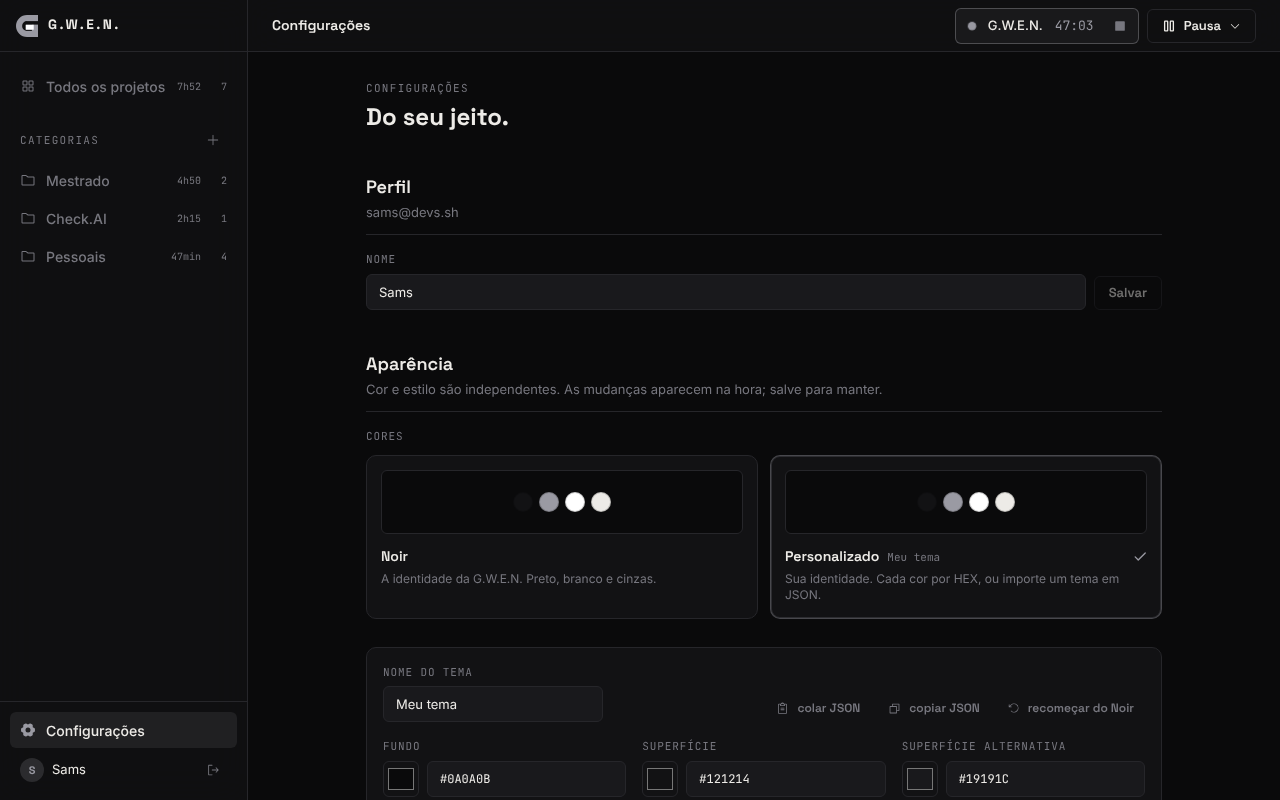
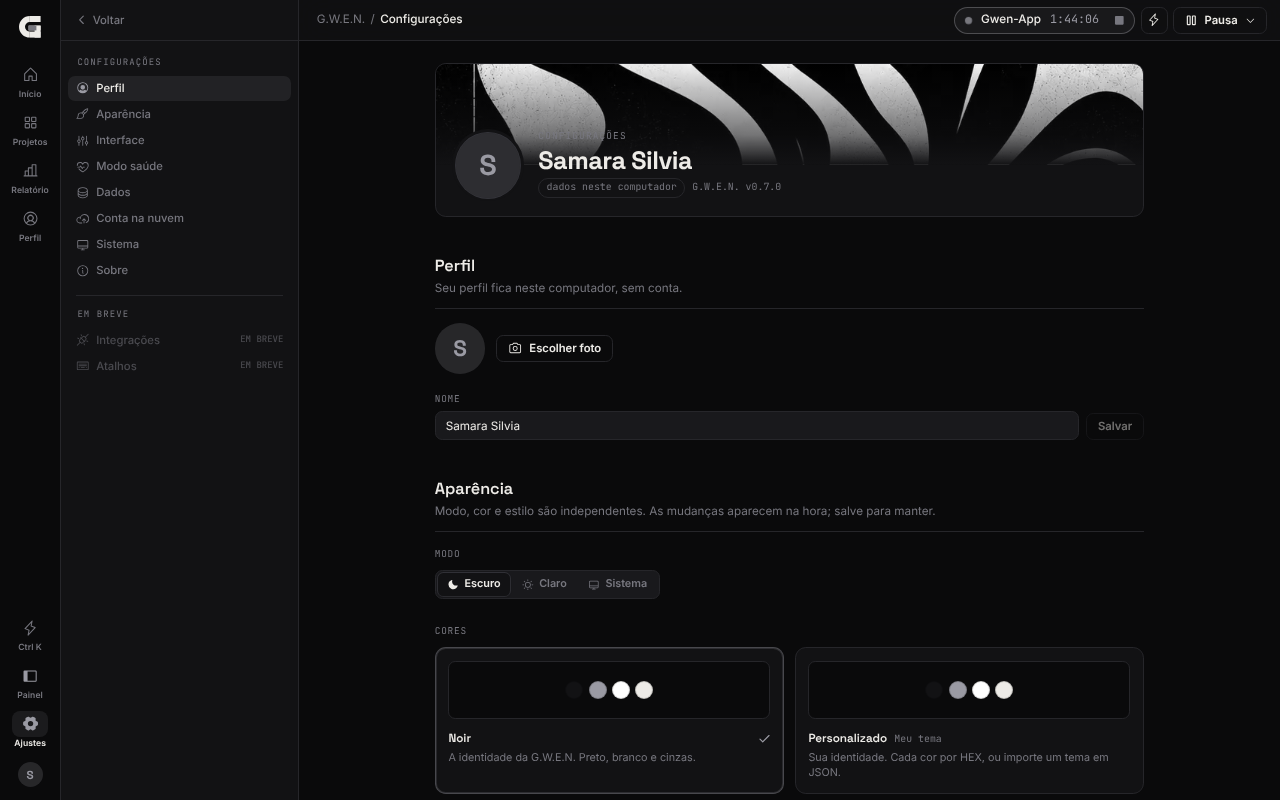
feat: settings navigation by sections with profile cover

diff --git a/src/pages/Settings.jsx b/src/pages/Settings.jsx
@@ -22,11 +22,13 @@ import {
 const MODE_ICON = { escuro: Moon, claro: Sun, sistema: Desktop };
 import Logo from '../components/Logo';
 import { Label } from '../components/Modal';
-import { AvatarPicker } from '../components/Avatar';
+import Avatar, { AvatarPicker } from '../components/Avatar';
+import { SETTINGS_SECTIONS, SettingsTabs } from '../components/SettingsNav';
+import wallpaper from '../assets/wallpaper.webp';
 import { DEFAULT_ZOOM, ZOOM_EVENT, ZOOM_STEPS, applyZoom, loadZoom, zoomLabel } from '../lib/zoom';
 import { bubbleEnabled, setBubbleEnabled } from '../lib/layout';
 
-export default function Settings() {
+export default function Settings({ section = 'perfil', jump = 0, onSpy, narrow = false }) {
   const { profile, updateProfile, reload } = useProfile();
   const { refresh } = useWorkspace();
   const toast = useToast();
@@ -72,6 +74,31 @@ export default function Settings() {
   const [dataPath, setDataPath] = useState('');
   const [importedAt, setImportedAt] = useState(null);
   const [cloudOpen, setCloudOpen] = useState(false);
+
+  // navegação por seções (0.7): pular até a seção clicada e marcar a que está visível
+  const scroller = useRef(null);
+  const spyLock = useRef(0);
+  useEffect(() => {
+    if (!jump) return;
+    const el = document.getElementById(`cfg-${section}`);
+    if (!el) return;
+    spyLock.current = Date.now() + 700;
+    el.scrollIntoView({ behavior: 'smooth', block: 'start' });
+  }, [jump]); // eslint-disable-line react-hooks/exhaustive-deps
+  function onScroll() {
+    if (!onSpy || Date.now() < spyLock.current) return;
+    const box = scroller.current;
+    if (!box) return;
+    const top = box.getBoundingClientRect().top + 96;
+    let current = SETTINGS_SECTIONS[0].id;
+    for (const { id } of SETTINGS_SECTIONS) {
+      const el = document.getElementById(`cfg-${id}`);
+      if (el && el.getBoundingClientRect().top <= top) current = id;
+    }
+    // no fim da página, a última seção ganha mesmo que seja curta
+    if (box.scrollTop + box.clientHeight >= box.scrollHeight - 4) current = SETTINGS_SECTIONS.at(-1).id;
+    onSpy(current);
+  }
   useEffect(() => {
     dataDir().then(setDataPath).catch(() => {});
     cloudImportDoneAt().then(setImportedAt).catch(() => {});
@@ -211,15 +238,28 @@ export default function Settings() {
   }
 
   return (
-    <div className="h-full overflow-y-auto">
+    <div className="h-full overflow-y-auto" ref={scroller} onScroll={onScroll}>
+      {narrow && <SettingsTabs section={section} onSection={(id) => onSpy?.(id, true)} />}
       <div className="page page-narrow flex flex-col gap-10">
-        <header className="anim-rise">
-          <p className="eyebrow mb-1">configurações</p>
-          <h1 className="page-title">Do seu jeito.</h1>
+        {/* capa no jeito do CuraData: wallpaper, foto e nome */}
+        <header className="settings-hero anim-rise" style={{ '--wallpaper': `url(${wallpaper})` }}>
+          <div className="settings-hero-cover" />
+          <div className="settings-hero-body">
+            <div className="profile-avatar">
+              <Avatar profile={profile} size={72} />
+            </div>
+            <div className="min-w-0 flex-1 pb-1">
+              <h1 className="page-title truncate">{profile?.display_name || 'Você'}</h1>
+              <p className="text-[12.5px] text-muted mt-1 flex items-center gap-2 flex-wrap">
+                <span className="chip">{account ? 'dados na nuvem' : 'dados neste computador'}</span>
+                {version && <span className="mono text-[11px]">G.W.E.N. v{version}</span>}
+              </p>
+            </div>
+          </div>
         </header>
 
         {/* PERFIL */}
-        <Section title="Perfil" description={account ? 'Seu perfil fica na nuvem, na sua conta.' : 'Seu perfil fica neste computador, sem conta.'}>
+        <Section id="perfil" title="Perfil" description={account ? 'Seu perfil fica na nuvem, na sua conta.' : 'Seu perfil fica neste computador, sem conta.'}>
           <div className="mb-5">
             <AvatarPicker
               avatar={profile?.avatar}
@@ -244,7 +284,7 @@ export default function Settings() {
         </Section>
 
         {/* APARÊNCIA */}
-        <Section title="Aparência" description="Modo, cor e estilo são independentes. As mudanças aparecem na hora; salve para manter.">
+        <Section id="aparencia" title="Aparência" description="Modo, cor e estilo são independentes. As mudanças aparecem na hora; salve para manter.">
           <p className="field-label mb-2.5">Modo</p>
           <div className="segmented mb-7">
             {Object.entries(MODES).map(([id, m]) => {
@@ -424,12 +464,13 @@ export default function Settings() {
         </Section>
 
         {/* INTERFACE */}
-        <Section title="Interface" description="Tamanho e comportamento das janelas. Vale para este computador.">
+        <Section id="interface" title="Interface" description="Tamanho e comportamento das janelas. Vale para este computador.">
           <InterfaceSettings />
         </Section>
 
         {/* MODO SAÚDE */}
         <Section
+          id="saude"
           title="Modo saúde"
           description="Lembretes de água, alongamento e descanso dos olhos. Contam tempo de trabalho, não relógio: param nas pausas e com o app fechado."
         >
@@ -512,7 +553,7 @@ export default function Settings() {
         </Section>
 
         {/* DADOS */}
-        <Section title="Dados" description={account ? 'Seus dados ficam na nuvem. O backup em JSON continua disponível.' : 'Tudo fica neste computador. Atualizar ou desinstalar a G.W.E.N. não apaga nada.'}>
+        <Section id="dados" title="Dados" description={account ? 'Seus dados ficam na nuvem. O backup em JSON continua disponível.' : 'Tudo fica neste computador. Atualizar ou desinstalar a G.W.E.N. não apaga nada.'}>
           <div className="card p-4 flex items-center gap-4 mb-3">
             <Database size={20} className="text-phosphor shrink-0" />
             <div className="flex-1 min-w-0">
@@ -552,12 +593,12 @@ export default function Settings() {
         </Section>
 
         {/* CONTA NA NUVEM */}
-        <Section title="Conta na nuvem" description="Opcional e avançado, para quem tem o próprio projeto Supabase. Não é preciso para usar a G.W.E.N.">
+        <Section id="nuvem" title="Conta na nuvem" description="Opcional e avançado, para quem tem o próprio projeto Supabase. Não é preciso para usar a G.W.E.N.">
           <CloudAccountSection />
         </Section>
 
         {/* SISTEMA */}
-        <Section title="Sistema" description="Como a G.W.E.N. se encaixa no seu computador.">
+        <Section id="sistema" title="Sistema" description="Como a G.W.E.N. se encaixa no seu computador.">
           <AutostartToggle />
           <TrayToggle />
           <div className="flex gap-2 items-end">
@@ -585,7 +626,7 @@ export default function Settings() {
         </Section>
 
         {/* SOBRE: autoria e licença (LICENSE, NOTICE.md) */}
-        <Section title="Sobre">
+        <Section id="sobre" title="Sobre">
           <div className="card p-4 flex items-center gap-4">
             <Logo size={40} charge={1} />
             <div className="flex-1">
@@ -748,9 +789,9 @@ function AutostartToggle() {
   );
 }
 
-function Section({ title, description, children }) {
+function Section({ id, title, description, children }) {
   return (
-    <section className="anim-rise">
+    <section id={id ? `cfg-${id}` : undefined} className="anim-rise scroll-mt-5">
       <div className="mb-4 pb-3 border-b border-rule">
         <h2 className="font-display text-lg font-semibold">{title}</h2>
         {description && <p className="text-[13px] text-muted mt-0.5">{description}</p>}

diff --git a/src/components/SettingsNav.jsx b/src/components/SettingsNav.jsx
@@ -1,0 +1,88 @@
+import {
+  CaretLeft, CloudArrowUp, Database, Desktop, Heartbeat, Info, Keyboard, PaintBrush, PlugsConnected, Sliders, UserCircle,
+} from '@phosphor-icons/react';
+
+/**
+ * Seções das Configurações (0.7), no padrão do CuraData: ao entrar em Ajustes,
+ * o painel de projetos dá lugar a esta navegação. Clicar rola até a seção, e a
+ * seção visível fica marcada enquanto você rola.
+ */
+export const SETTINGS_SECTIONS = [
+  { id: 'perfil', label: 'Perfil', icon: UserCircle },
+  { id: 'aparencia', label: 'Aparência', icon: PaintBrush },
+  { id: 'interface', label: 'Interface', icon: Sliders },
+  { id: 'saude', label: 'Modo saúde', icon: Heartbeat },
+  { id: 'dados', label: 'Dados', icon: Database },
+  { id: 'nuvem', label: 'Conta na nuvem', icon: CloudArrowUp },
+  { id: 'sistema', label: 'Sistema', icon: Desktop },
+  { id: 'sobre', label: 'Sobre', icon: Info },
+];
+
+const SOON = [
+  { id: 'integracoes', label: 'Integrações', icon: PlugsConnected, hint: 'Google Calendar e GitHub' },
+  { id: 'atalhos', label: 'Atalhos', icon: Keyboard, hint: 'Ver e trocar os atalhos de teclado' },
+];
+
+export default function SettingsNav({ section, onSection, onBack, overlay, onClose }) {
+  return (
+    <aside className={`panel ${overlay ? 'is-overlay' : ''}`} aria-label="Seções das configurações">
+      <div className="panel-head">
+        <button className="settings-back" onClick={onBack}>
+          <CaretLeft size={13} weight="bold" />
+          Voltar
+        </button>
+      </div>
+
+      <nav className="flex-1 overflow-y-auto px-2 py-3 flex flex-col gap-px">
+        <p className="panel-section !pt-1">Configurações</p>
+        {SETTINGS_SECTIONS.map(({ id, label, icon: Icon }) => {
+          const active = section === id;
+          return (
+            <button
+              key={id}
+              className={`panel-row ${active ? 'is-active' : ''}`}
+              onClick={() => {
+                onSection(id);
+                if (overlay) onClose?.();
+              }}
+              aria-current={active ? 'true' : undefined}
+            >
+              <Icon size={15} weight={active ? 'fill' : 'regular'} className={active ? 'text-phosphor' : ''} />
+              <span className="flex-1 truncate">{label}</span>
+            </button>
+          );
+        })}
+
+        <div className="h-px bg-[var(--c-rule)] mx-2 my-3" />
+        <p className="panel-section !pt-0">Em breve</p>
+        {SOON.map(({ id, label, icon: Icon, hint }) => (
+          <div key={id} className="panel-row is-disabled" title={hint}>
+            <Icon size={15} />
+            <span className="flex-1 truncate">{label}</span>
+            <span className="panel-meta uppercase">em breve</span>
+          </div>
+        ))}
+      </nav>
+    </aside>
+  );
+}
+
+/** Em janela estreita, as seções viram uma faixa de abas no topo da página */
+export function SettingsTabs({ section, onSection }) {
+  return (
+    <div className="settings-tabs" role="tablist" aria-label="Seções das configurações">
+      {SETTINGS_SECTIONS.map(({ id, label, icon: Icon }) => (
+        <button
+          key={id}
+          role="tab"
+          aria-selected={section === id}
+          className={section === id ? 'is-active' : ''}
+          onClick={() => onSection(id)}
+        >
+          <Icon size={13} weight={section === id ? 'fill' : 'regular'} />
+          {label}
+        </button>
+      ))}
+    </div>
+  );
+}

diff --git a/src/styles/index.css b/src/styles/index.css
@@ -355,6 +355,38 @@ select option { background: var(--c-surface); color: var(--c-bone); }
   color: inherit; opacity: 0.75; border: 1px solid currentColor; text-transform: none;
 }
 
+/* ─── CONFIGURAÇÕES (0.7, padrão do CuraData) ─── */
+.settings-back {
+  display: inline-flex; align-items: center; gap: 6px; height: 28px; padding: 0 8px; margin-left: -6px;
+  border: 0; background: transparent; color: var(--c-muted); border-radius: var(--radius-sm);
+  font-size: 12.5px; font-weight: 500; transition: background 0.15s, color 0.15s;
+}
+.settings-back:hover { background: var(--c-phosphor-8); color: var(--c-bone); }
+:root[data-style='terminal'] .settings-back { font-family: var(--f-mono); font-size: 10.5px; letter-spacing: 0.15em; text-transform: uppercase; }
+.panel-row.is-disabled { color: var(--c-muted); opacity: 0.55; cursor: default; }
+.panel-row.is-disabled:hover { background: transparent; color: var(--c-muted); }
+.settings-hero { position: relative; border: 1px solid var(--c-rule); border-radius: var(--radius); overflow: hidden; background: var(--c-surface); }
+.settings-hero-cover {
+  height: 112px;
+  background-image: linear-gradient(180deg, transparent 0%, color-mix(in srgb, var(--c-surface) 55%, transparent) 70%, var(--c-surface) 100%), var(--wallpaper);
+  background-size: cover; background-position: center 40%;
+}
+:root[data-mode='claro'] .settings-hero-cover { background-image: linear-gradient(180deg, color-mix(in srgb, var(--c-surface) 40%, transparent) 0%, color-mix(in srgb, var(--c-surface) 80%, transparent) 70%, var(--c-surface) 100%), var(--wallpaper); }
+.settings-hero-body { display: flex; align-items: flex-end; gap: 16px; padding: 0 18px 16px; margin-top: -40px; position: relative; }
+.settings-hero .profile-avatar { background: var(--c-surface); }
+.settings-tabs {
+  position: sticky; top: 0; z-index: 15; display: flex; gap: 4px; overflow-x: auto; padding: 8px clamp(16px, 3.2vw, 36px);
+  background: var(--c-surface-glass); backdrop-filter: blur(var(--blur)); border-bottom: 1px solid var(--c-rule);
+}
+.settings-tabs button {
+  display: inline-flex; align-items: center; gap: 6px; height: 28px; padding: 0 10px; flex-shrink: 0;
+  border: 0; border-radius: 999px; background: transparent; color: var(--c-muted); font-size: 12px; font-weight: 600; white-space: nowrap;
+}
+.settings-tabs button:hover { color: var(--c-bone); background: var(--c-phosphor-8); }
+.settings-tabs button.is-active { color: var(--c-bone); background: var(--c-phosphor-12); }
+.settings-tabs button.is-active svg { color: var(--c-phosphor); }
+:root[data-style='terminal'] .settings-tabs button { border-radius: var(--radius-sm); font-family: var(--f-mono); font-size: 10.5px; letter-spacing: 0.12em; text-transform: uppercase; }
+
 /* ─── PÁGINAS ─── */
 .page { max-width: 1180px; margin: 0 auto; padding: 24px clamp(16px, 3.2vw, 36px) 40px; }
 .page-narrow { max-width: 860px; }

diff --git a/src/App.jsx b/src/App.jsx
@@ -12,6 +12,7 @@ import Settings from './pages/Settings';
 import Report from './pages/Report';
 import Sidebar from './components/Sidebar';
 import Rail from './components/Rail';
+import SettingsNav from './components/SettingsNav';
 import Home from './pages/Home';
 import Profile from './pages/Profile';
 import { useBubble } from './lib/bubble';
@@ -70,6 +71,10 @@ function Shell() {
   const [view, setView] = useState('inicio');
   const [filter, setFilter] = useState('all');
   const [focusId, setFocusId] = useState(null);
+  // Configurações: seção marcada, pedido de rolagem e a tela para onde o Voltar leva
+  const [cfgSection, setCfgSection] = useState('perfil');
+  const [cfgJump, setCfgJump] = useState(0);
+  const [backTo, setBackTo] = useState('inicio');
   const narrow = useMediaQuery(NARROW_QUERY);
   // painel fixo: preferência guardada; em janela estreita vira gaveta e começa fechado
   const [docked, setDocked] = useStoredState('gwen.painel', true);
@@ -109,8 +114,23 @@ function Shell() {
   }, [togglePanel]);
 
   const navigate = useCallback((next) => {
-    setView(next);
+    setView((prev) => {
+      if (next === 'config' && prev !== 'config') {
+        setBackTo(prev);
+        setCfgSection('perfil');
+      }
+      return next;
+    });
     if (next !== 'projetos') setFocusId(null);
+  }, []);
+  const goSection = useCallback((id) => {
+    setCfgSection(id);
+    setCfgJump((n) => n + 1);
+  }, []);
+  // a rolagem da página marca a seção; nas abas (janela estreita) também pula até ela
+  const spySection = useCallback((id, jump = false) => {
+    setCfgSection(id);
+    if (jump) setCfgJump((n) => n + 1);
   }, []);
   const openProject = useCallback((p) => {
     setFilter(p.category_id || 'none');
@@ -165,7 +185,7 @@ function Shell() {
   useBubble({ projects, activeSession, activeBreak });
 
   let page;
-  if (view === 'config') page = <Settings />;
+  if (view === 'config') page = <Settings section={cfgSection} jump={cfgJump} onSpy={spySection} narrow={narrow} />;
   else if (view === 'relatorio') page = <Report />;
   else if (view === 'perfil') page = <Profile onNavigate={navigate} />;
   else if (view === 'inicio') page = <Home stats={stats} onNavigate={navigate} onOpenProject={openProject} />;
@@ -174,7 +194,10 @@ function Shell() {
   return (
     <div className="h-full flex">
       <Rail view={view} onNavigate={navigate} panelOpen={panelOpen} onTogglePanel={togglePanel} />
-      {panelOpen && (
+      {/* em Ajustes, a navegação das seções toma o lugar do painel de projetos (como no CuraData) */}
+      {view === 'config' && !narrow ? (
+        <SettingsNav section={cfgSection} onSection={goSection} onBack={() => navigate(backTo)} />
+      ) : panelOpen && (
         <>
           {narrow && <div className="panel-scrim anim-fade" onMouseDown={() => setDrawer(false)} />}
           <Sidebar

diff --git a/README.md b/README.md
@@ -209,8 +209,9 @@ Na primeira abertura, diga como quer ser chamado e, se quiser, escolha uma foto.
 9. **Alertas de saúde** aparecem no cartão *Saúde* do Início, com a fonte de cada um. A lista completa de referências fica no fim do Perfil.
 10. **Perfil:** números do ano, mapa de atividade de 12 ou 6 meses e as grades de hábitos. Passe o mouse num quadradinho para ver o dia.
 11. **Relatório**, no trilho: escolha o período e veja para onde foi o tempo. *Exportar CSV* gera uma linha por sessão, que abre direto no Excel.
-12. **Interface** (Ajustes > Interface): escala da tela (também com **Ctrl +**, **Ctrl -** e **Ctrl 0**) e a bolha ao minimizar.
-13. **Sistema** (Ajustes > Sistema): abrir junto com o Windows e fechar para a bandeja. Com a bandeja ligada, o X só esconde a janela; para sair de vez, clique direito no ícone e *Sair*.
+12. **Ajustes**: o painel lateral vira a lista de seções (Perfil, Aparência, Interface, Modo saúde, Dados, Conta na nuvem, Sistema, Sobre). Clique para ir direto a uma delas; *Voltar* leva à tela de antes. Em janela estreita, as seções aparecem como abas no topo.
+13. **Interface** (Ajustes > Interface): escala da tela (também com **Ctrl +**, **Ctrl -** e **Ctrl 0**) e a bolha ao minimizar.
+14. **Sistema** (Ajustes > Sistema): abrir junto com o Windows e fechar para a bandeja. Com a bandeja ligada, o X só esconde a janela; para sair de vez, clique direito no ícone e *Sair*.
 
 <div align="center">
   <img src="_assets/prints/modo-saude.png" alt="Lembretes do modo saúde" width="100%">

diff --git a/CHANGELOG.md b/CHANGELOG.md
@@ -18,6 +18,7 @@ O formato segue o [Keep a Changelog](https://keepachangelog.com/pt-BR/1.1.0/) e 
 - **Painel de projetos em árvore:** coleções inteligentes (Fixados, Recentes, Em andamento, Parados) e as categorias como pastas que abrem e fecham, com os projetos dentro e o botão de começar sempre visível. Filtro por nome no topo
 - **Fixar projeto:** alfinete no card. Fixados aparecem primeiro na lista e na coleção Fixados
 - **Vista em lista** na tela de projetos, além da grade
+- **Configurações por seções**, no padrão do CuraData: ao entrar em Ajustes, o painel lateral vira a navegação das seções (Perfil, Aparência, Interface, Modo saúde, Dados, Conta na nuvem, Sistema, Sobre), com Voltar e um grupo "Em breve". Clicar rola até a seção e a seção visível fica marcada. No topo, uma capa com o wallpaper, a foto e o nome. Em janela estreita, as seções viram abas no topo
 - **Escala da interface:** padrão 90%. `Ctrl +`, `Ctrl -` e `Ctrl 0` em qualquer tela, também `Ctrl` + roda do mouse. Opção em Configurações, Interface
 - **Bolha ao minimizar:** minimizou, aparece uma bolha redonda sempre no topo com o logo, o tempo da sessão e um anel com o andamento da hora. Arraste para mover (a posição fica salva); clique para voltar. Dá para desligar em Configurações, Interface
 
